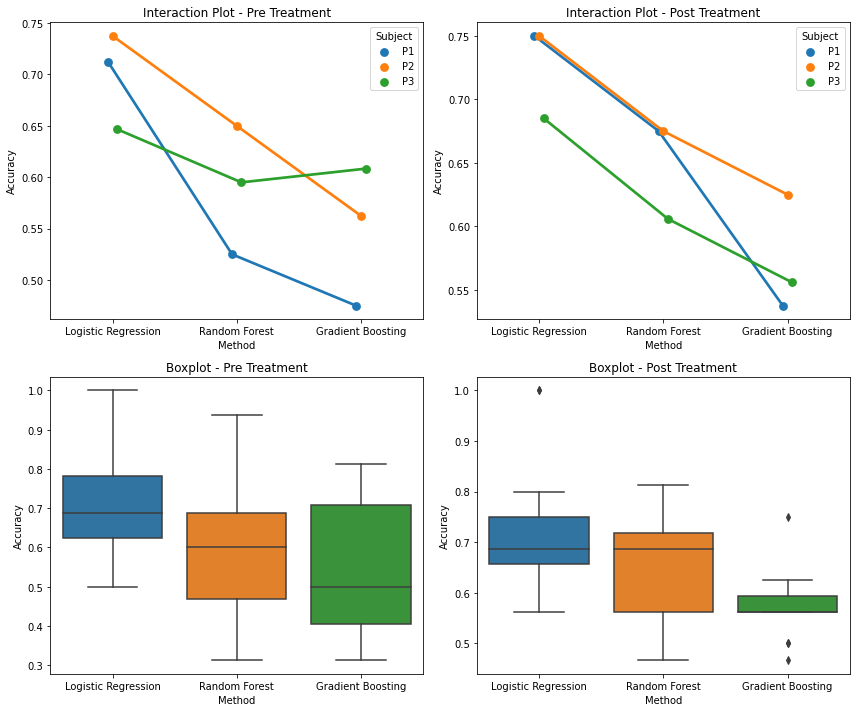
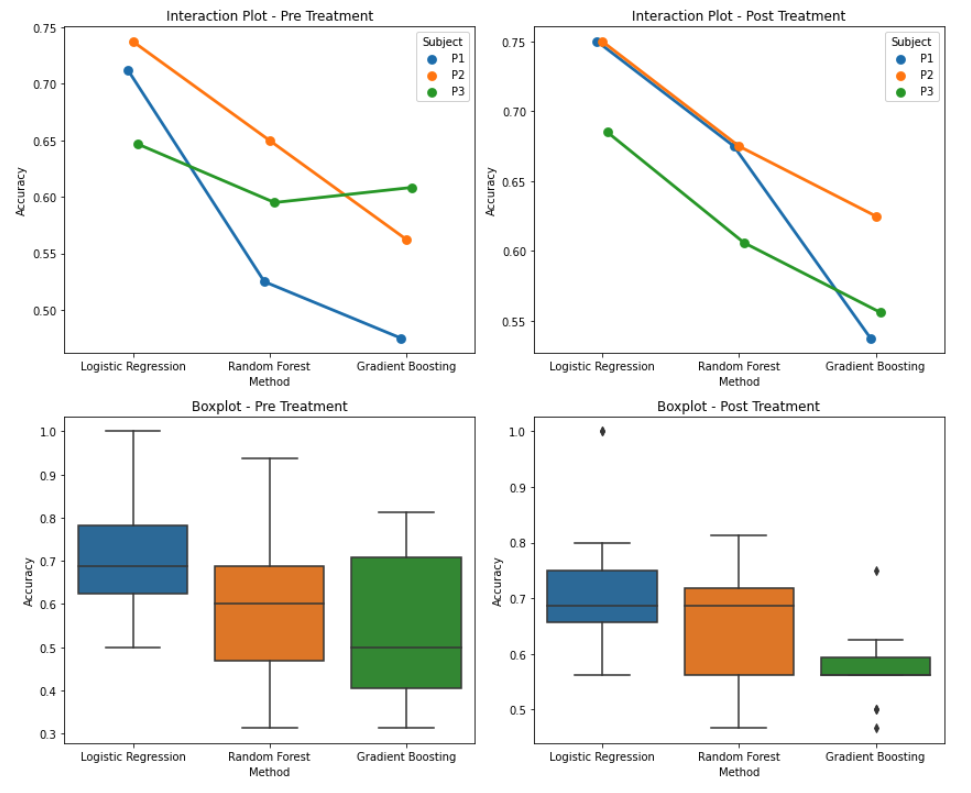
update readme + renames to reflect including classical ML + figure correction (axes were transparent)

diff --git a/README.md b/README.md
@@ -54,12 +54,13 @@ to compare our performances to theirs.
 Our analysis confirms that linear transformation methods are far superior
 in processing time than non-linear machine learning models. This makes linear
 transformations far more applicable in the BCI-rehabilitation paradigm; even
-though accuracy can be improved by some non-linear models.
+though accuracy can be improved by some non-linear models (like on
+[StrokeNet](https://github.com/hWils/Stroke-Net)).
 
 Interestingly, while replicating CSP, we tuned this feature extraction method's
 hyper parameters, and found that some subjects had improved accuracy with
-greater than four components. The original paper reported that
-four components were used in all subjects. We propose that subject-specific
+greater than four CSP components. The original paper reported that
+four CSP components were used in all subjects. We propose that subject-specific
 hyper parameter tuning could improve motor imagery detection performance,
 inside the BCI-rehabilitation paradigm.
 
@@ -119,9 +120,10 @@ The `Traditional_ML_rawEEG_LR_Classification.ipynb` notebook contains code for t
 Our simple pre-processing method is inside `preprocess.m` (missing on init).
 
 Our entire CSP + LDA signal processing pipeline is inside. 
-`csp_lda.py`.
+`csp_lda.py`. Results are stored in `csp_lda_results/`.
 
-`jobs.sh` indicates how we used the above scripts on each participant.
+`csp_lda_jobs.sh` indicates how we used the `csp_lda.py` script on each 
+participant.
 
 ### Data
 
